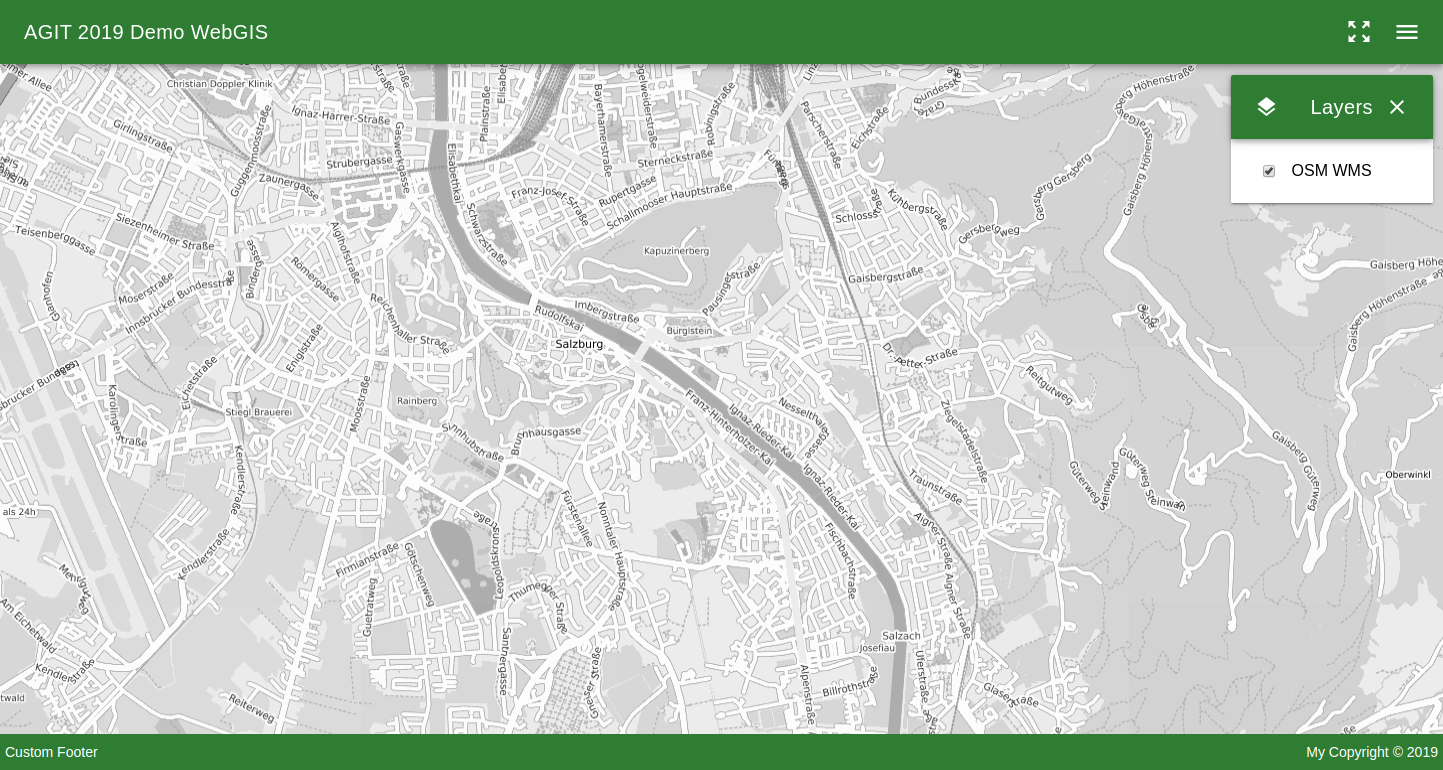
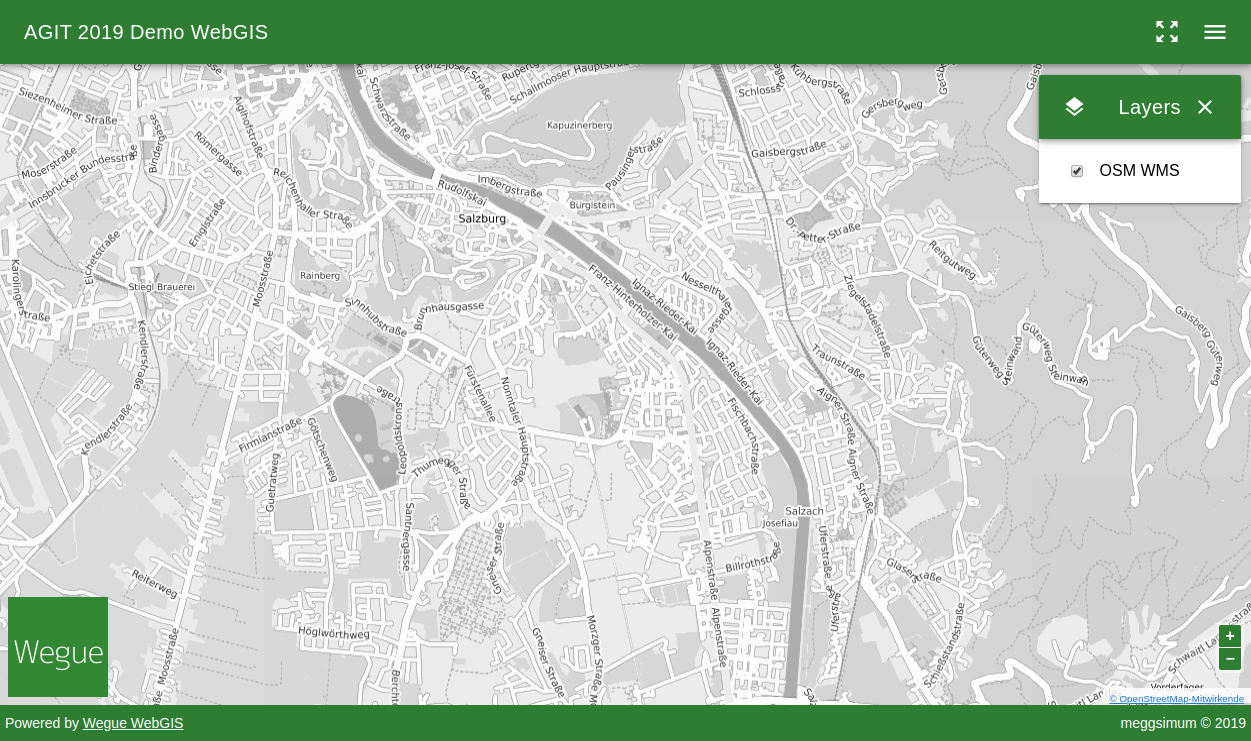
Fine adjustments in slides

diff --git a/wegue-talk/index.html b/wegue-talk/index.html
@@ -66,7 +66,7 @@
           <h2>Gliederung</h2>
           <ul>
             <li>Über&hellip;</li>
-            <li>Was ist Wegue? / was ist es nicht?</li>
+            <li>Das Wegue Projekt</li>
             <li>Neuerungen</li>
             <li>Beispiele aus der Praxis</li>
           </ul>
@@ -166,11 +166,11 @@
           <h2>Wegue</h2>
           <ul>
             <li>Template für leichtgewichtigen WebGIS-Client-Anwendungen</li>
-            <li>Lizenz: BSD-2-Clause</li>
             <li>Kombiniert <a href="https://vuejs.org/">Vue.js</a> und <a href="https://openlayers.org">OpenLayers</a></li>
             <li>Wiederverwendbare WebGIS-UI-Komponenten</li>
             <li>Konfigurierbar mittels JSON</li>
             <li>Beliebiger JavaScript-Code ergänzbar</li>
+            <li>Lizenz: BSD-2-Clause</li>
             <li><a href="https://github.com/meggsimum/wegue" title="Wegue Code Repository">Code (github)</a></li>
           </ul>
         </section>
@@ -179,11 +179,12 @@
           <h2>Vue.js</h2>
           <ul>
             <li>Clientseitiges JavaScript-Webframework (MVVM)</li>
-            <li>Lizenz: MIT</li>
             <li>Flexibel einsetzbar (Standalone & Embedded)</li>
             <li>Einfache API, leicht zu erlernen</li>
+            <li>Mächtige Template-Engine</li>
             <li>Projektstruktur ohne zu viele Einschränkungen</li>
             <li>Two-Way-Binding, Direktiven, (vererbbare) Komponenten, ...</li>
+            <li>Lizenz: MIT</li>
           </ul>
         </section>
 
@@ -195,9 +196,9 @@
           </blockquote>
           <ul>
             <li>JavaScript Mapping-Bibliothek</li>
-            <li>Lizenz: BSD</li>
             <li>OSGeo Projekt</li>
             <li>Viele Daten- & Layerquellen, Interaktionen & Steuerelemente, ...</li>
+            <li>Lizenz: BSD</li>
           </ul>
         </section>
 
@@ -240,8 +241,9 @@
             <ul>
               <li>Flexiblere Nutzung</li>
               <li>Verbesserte Updatefähigkeit</li>
+              <li>Mehr Hooks für eigene Code Erweiterung</li>
             </ul>
-            <li>Mehr Hooks für eigene Code Erweiterung</li>
+            <li>Dynamische Konfiguration per URL-Parameter</li>
             <li>Vektor-Styling über Konfiguration</li>
             <li>Verbesserte Testabdeckung (> 80%)</li>
             <li>Upgrade auf neueste Basis-Bibliotheken</li>
@@ -259,7 +261,6 @@
     {
       "type": "OSM",
       "lid": "osm-bg",
-      "isBaseLayer": false,
       "visible": true
     }
   ]
@@ -280,23 +281,31 @@
   "baseColor": "green darken-3",
   "logo": "https://dummyimage.com/100x100/383/fff&text=Wegue",
   "logoSize": "100",
-  "footerTextLeft": "Custom Footer",
-  "footerTextRight": "My Copyright",
-  "showCopyrightYear": true,
   "mapZoom": 14,
   "mapCenter": [1453914, 6071774],
   "mapLayers": [
     {
       "type": "WMS",
       "lid": "terrestris-osm-wms",
+      "name": "OSM WMS",
       "format": "image/png",
-      "layers": "OSM-WMS",
       "url": "http://ows.terrestris.de/osm-gray/service",
+      "layers": "OSM-WMS",
       "projection": "EPSG:3857",
-      "attributions": "<a href='https://www.openstreetmap.org/copyright' target='_blank'>© OpenStreetMap-Mitwirkende</a>",
-      "isBaseLayer": false
+      "attributions": "<a href='https://www.openstreetmap.org/copyright' target='_blank'>© OpenStreetMap-Mitwirkende</a>"
     }
-  ]
+  ],
+  "modules": {
+    "wgu-zoomtomaxextent": {
+      "target": "toolbar",
+      "darkLayout": true
+    },
+    "wgu-layerlist": {
+      "target": "menu",
+      "win": true,
+      "draggable": false
+    }
+  }
 }
           </code></pre>
         </section>
@@ -320,7 +329,7 @@
         </section>
 
         <section>
-          <h2>WebGIS-App (eigene App)</h2>
+          <h2>WebGIS-App Template</h2>
           <p>
              <code>src/src/WguAppTemplate.vue</code> erweitern in
              <code>app/WguApp.vue</code>
@@ -392,7 +401,7 @@
         </section>
 
         <section>
-          <h2>WebGIS-App (eigene App)</h2>
+          <h2>WebGIS-App Template</h2>
           <img src="img/weinstrassenreise-webgis.png" alt="">
         </section>
 
@@ -481,9 +490,10 @@
         <section>
           <h2>Ausblick</h2>
           <ul>
-            <li>Upgrade OpenLayers v6.0.0</li>
+            <li>Upgrade OpenLayers v6.0.0 (vorbereitet)</li>
             <li>Docker-Image (WIP)</li>
-            <li>Herauslösung der Komponenten als Bibliothek?</li>
+            <li>GUI / Anwendung zur Erzeugung App-Konfig</li>
+            <li>Herauslösung der UI-Komponenten als Bibliothek?</li>
             <li>Verbesserung Dokumentation & HowTo / Get Started</li>
             <li>Community aufbauen</li>
           </ul>
@@ -492,7 +502,7 @@
         <section id="thanks-questions">
           <h4>Vielen Dank</h4>
           <hr />
-          <h1 style="font-size:3.0em">Fragen &amp; Anmerkungen?</h1>
+          <h1 style="font-size:2.8em">Fragen &amp; Anmerkungen?</h1>
           <hr />
           <p class="subtle">
             <a href="#/imprint">Impressum</a>
@@ -506,7 +516,7 @@
             <address style="">
               <strong>Christian Mayer</strong><br />
               <span style="font-size: smaller;">
-              meggsimum Geoinformatik<br />
+              meggsimum &dash; Büro für Geoinformatik<br />
               Schillerstraße 2a<br />
               67112 Mutterstadt<br />
               info@meggsimum.de
